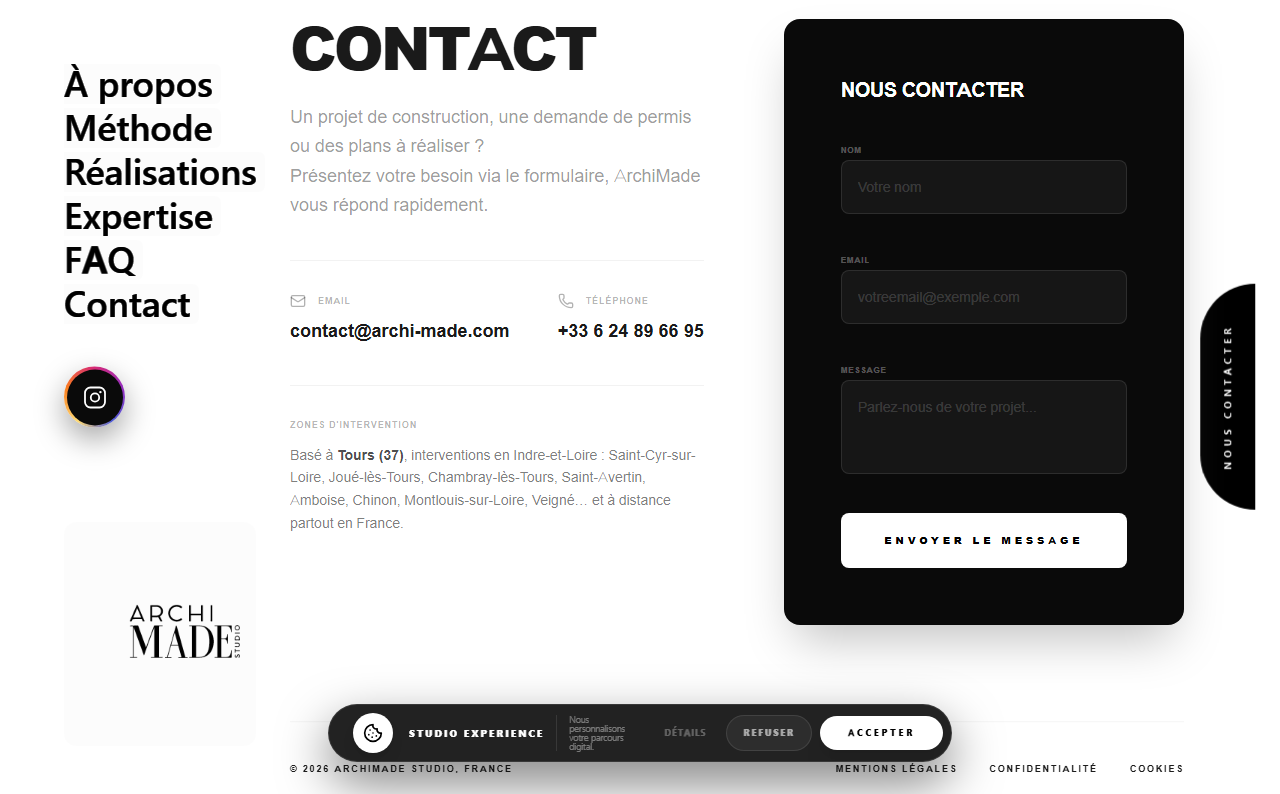
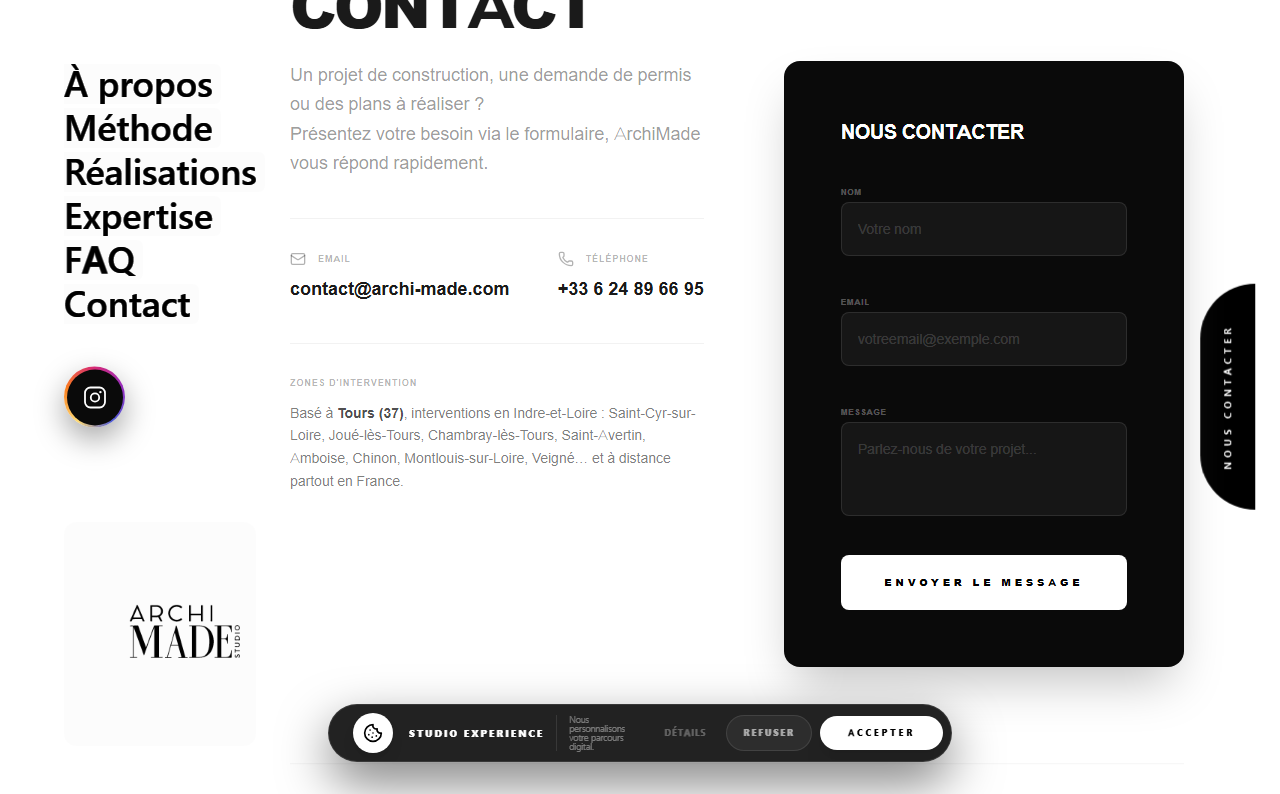
Contact: drop form card below heading, level with intro text

diff --git a/src/components/ArchiMadeLanding.tsx b/src/components/ArchiMadeLanding.tsx
@@ -2885,8 +2885,11 @@ function ArchiContact() {
             </div>
           </div>
 
-          {/* Right: Premium Card */}
-          <div className="contact-form-card lg:w-125 xl:w-145 w-full">
+          {/* Right: Premium Card. Top-offset only (row stays items-start) so the
+              card top drops to the intro-paragraph line, just below the CONTACT
+              heading. Offset = heading height + the space-y-6 gap (1.5rem); it
+              tracks the heading's responsive size (8xl at lg, clamp at xl). */}
+          <div className="contact-form-card lg:w-125 xl:w-145 w-full lg:mt-[7.5rem] xl:mt-[calc(clamp(3.75rem,calc(14vw-7.5rem),6rem)+1.5rem)]">
             <div className="bg-brand-dark p-8 md:p-12 lg:p-14 rounded-2xl border border-black/5 shadow-2xl relative overflow-hidden text-white">
               <h3 className="text-xl font-bold uppercase tracking-tight mb-8">
                 Nous contacter

diff --git a/PROGRESS.md b/PROGRESS.md
@@ -84,6 +84,7 @@ Official RNE/INPI lookup: APE **7112B** "Ingénierie, études techniques", décl
 - 2026-06-20 — 100% finish (dash-free copy + real nav/logo overlap fixes + true-zero-visible layout + kept proof-sheet) — **P1 dashes:** removed all 40 em/en-dash separators from src (40 -> 0; dist 0). Copy restructures: Réalisations H2 "Réalisations en Indre-et-Loire : plans & rendus 3D"; Zones "Basé à Tours (37), interventions…"; 6 gallery/about alts "…, dessinateur ArchiMade"; hero desc, founder line, legal éditeur/activité/footer, all alts -> "," / ":" by readability. Place-name hyphens (Saint-Cyr-sur-Loire, Indre-et-Loire) + middots (· eyebrow/founder) untouched. **P2 detector rewrite + real fixes:** scripts/layout-sweep.mjs now models VISIBLE INK overlap (Range glyph-rects with line-leading inset, effective opacity >=0.5 incl. ancestors, color-alpha >=0.5; Z-ORDER NEVER excuses; elementFromPoint used ONLY to confirm a 3D backface rotated away). Caught what the old occlusion-based pass wrongly dismissed. **Three real fixes (CSS only, no animation logic touched):** (A) nav vs CONTACT heading + (B) logo vs ZONES: Contact `<footer>` inner container `xl:max-w-none xl:mx-0 xl:pl-72 xl:pr-16`, columns `lg:flex-row xl:flex-col 2xl:flex-row` (clears the fixed 25vw sidebar at xl, form stacks through xl, side-by-side restored at 2xl; left col `xl:w-full 2xl:flex-1`, form `xl:w-full 2xl:w-145 2xl:shrink-0`). (C) nav vs long right-aligned "Réalisations en Indre-et-Loire :" heading (a side-effect of the P1 restructure): gallery-header `xl:pl-32` so it wraps clear of the nav. Plus the sticky "Nous contacter" pill became an icon-only circle until xl (`hidden xl:block` text / `xl:hidden` icon / circle sizing to xl) so it stops covering FAQ/content text at md/lg; at xl it's the rotated text pill in the right gutter. **Sweep result: 0 overflow / 0 overlap / 0 clip / 0 escape** across 4 routes × 18 widths (incl. just-below-breakpoints) × all states (sections, 6 service + 10 FAQ expands, gallery modal, cookie shown/dismissed, longest tagline, mobile nav); probe destroys Lenis so scroll-direction UI (mobile header auto-hide, isUIHidden sidebar fade over Réalisations/Expertise) fires as a user sees it. Residual = MINOR sub-40px tap heights on intended controls only. **P3 proof-sheet (KEPT):** ./layout-proof/ 38 PNGs — home {default, contact, faq-open, modal-open, cookie-shown, mobile-nav≤768} at 1920/1440/1280/1024/768/390 + 3 legal routes at 1280/390. Gates: build green 4 routes (max client chunk 311 KB<500); seo-check **28/28**; dist architecture=0, @type Architect=0; architecte only in disclaiming FAQ (negation-bound, 2x = captured question + answer, none in title/og/H/JSON-LD); dessinateur in title+eyebrow+H2+30 alts; all FAQ answers crawlable; eyebrow + full H1 (du croquis au permis) intact; em/en dashes 0 in dist+src, place-name hyphens intact. git diff = copy punctuation + layout CSS + sweep script; no GSAP/ScrollTrigger/framer-motion/Lenis logic line altered. **TODO(client) unchanged:** RCP, affiliation (FNDI?), Google avis, price 700 à 1 200 € figures, experience/project metrics.
 - 2026-06-20 — Contact: clearance-only overlap fix, restore balanced side-by-side composition — commit 65376dc had fixed the Contact nav/logo overlaps but WRONGLY restructured the columns (xl:flex-col stacking + 2xl:flex-row, lg:w-1/2->xl:w-full->2xl:flex-1 width surgery, xl:w-full/2xl:w-145 form surgery, xl:max-w-none/xl:mx-0/xl:pl-72 decenter), breaking the balanced side-by-side composition. **Reverted** all of that: Contact `<footer>` columns back to the original `flex flex-col lg:flex-row justify-between items-start lg:items-center gap-12 lg:gap-20`, left col `lg:w-1/2 space-y-10`, form `contact-form-card lg:w-125 xl:w-145 w-full` — byte-identical to pre-65376dc. **Re-fixed by CLEARANCE ONLY** (padding, no restructure): container `+ xl:pl-[max(96px,calc(930px-50vw))]` — extra left padding that only kicks in below ~1668px (centered max-w-7xl already clears the fixed nav/logo on wide screens, so wide composition is byte-identical/0 shift) and clears the nav (~215px) + bottom logo (~260px) at narrow xl. STEP 3 scale: CONTACT heading `+ xl:text-[clamp(3.75rem,calc(14vw-7.5rem),6rem)]` so it fits the nav-cleared left column at narrow xl and returns to full 8xl by ~1536. NO flex-direction/column-count/stacking/relative-width change (composition guard confirmed vs 65376dc^). Réalisations gallery-header `xl:pl-32` (from prior task) retained. Sweep (visible-ink, z-order-never-excuses, Lenis destroyed): **0 overlap / 0 overflow / 0 clip / 0 escape** across 4 routes × 18 widths × all states. Proof-sheet regenerated (./layout-proof/ 38 PNGs) — Contact at 1280/1440/1920 show the BALANCED side-by-side (info left, form right), zero overlap. Gates: build green 4 routes (max chunk 311 KB<500); seo-check **28/28**; dist+src em/en dashes 0, place-name hyphens intact; architecture=0, @type Architect=0, architecte only in disclaiming FAQ (negation-bound); dessinateur in title+eyebrow+H2+30 alts; FAQ answers crawlable; eyebrow + full H1 intact. git diff = Contact container padding + responsive heading scale only; no animation logic line altered. **TODO(client) unchanged:** RCP, affiliation (FNDI?), Google avis, price 700 à 1 200 € figures, experience/project metrics.
 - 2026-06-20 — Contact: align form card to heading top line (balanced side-by-side) — alignment-only polish. Measured form-card.top vs CONTACT-h2.top in the Contact `<footer>`: BEFORE (lg:items-center centered the row, form card is the taller column) the form poked ABOVE the heading by ~38px (1280 -45px, 1440 -34px, 1920 -38px). FIX: removed `lg:items-center` so the row stays `items-start` (top-aligned) at all breakpoints → form-card.top == heading.top. AFTER: offset **0px** at 1280/1440/1920 (form top and CONTACT heading top share one clean line; form no longer raised). NO width/flex-direction/stacking/font/copy change (single class removed: `lg:items-center`). Sweep: **0 overlap / 0 overflow / 0 clip / 0 escape** across 4 routes × 18 widths × all states. Proof-sheet refreshed (./layout-proof/ 38 PNGs); Contact 1280/1440/1920 show the form top aligned to the heading top, balanced. Gates: build green 4 routes (max chunk 311 KB<500); seo-check **28/28**; dist+src dashes 0; architecture=0, @type Architect=0; eyebrow + full H1 intact; FAQ answers crawlable; dessinateur in title/eyebrow/H2/30 alts. git diff = single Contact vertical-alignment class; no animation logic touched. **TODO(client) unchanged:** RCP, affiliation (FNDI?), Google avis, price 700 à 1 200 € figures, experience/project metrics.
+- 2026-06-20 — Contact: drop form card below heading, level with intro text — top-offset-only polish. The prior change top-aligned the form to the CONTACT heading; this drops it to the intro-paragraph line so the heading stands alone above and the form sits lower beside the supporting text/contact info. Measured (viewport h=1024, scrolled to #contact): needed drop = intro.top - form.top = heading-height + the space-y-6 gap (1.5rem) = 120px@1024, 84px@1280, 106px@1440, 120px@1920 (tracks the heading clamp). FIX (form card only, row stays items-start): added `lg:mt-[7.5rem]` (lg heading = text-8xl) + `xl:mt-[calc(clamp(3.75rem,calc(14vw-7.5rem),6rem)+1.5rem)]` (matches the xl heading clamp). AFTER: form.top == intro.top within **0px** at 1024/1280/1440/1920; form clearly below the heading; form.bottom (782-800px) well within the lg:h-screen overflow-hidden section (1024) — NO clip/overflow. NO width/flex-direction/stacking/font/copy change (only two `mt` utilities appended to the form card). Sweep: **0 overlap / 0 overflow / 0 clip / 0 escape** across 4 routes × 18 widths × all states. Proof-sheet refreshed (./layout-proof/ 38 PNGs); Contact 1280/1440/1920 show the form lower, top level with the intro text. Gates: build green 4 routes (max chunk 311 KB<500); seo-check **28/28**; dist+src dashes 0; architecture=0, @type Architect=0; eyebrow + full H1 intact; FAQ answers crawlable; dessinateur in title/eyebrow/H2/30 alts. git diff = form-card top-offset classes only; no animation logic touched. **TODO(client) unchanged:** RCP, affiliation (FNDI?), Google avis, price 700 à 1 200 € figures, experience/project metrics.
 - (append: date — phase — done — next)
 - 2026-06-18 — P1 — .npmrc legacy-peer-deps confirmed; soft-404 fixed: catch-all `*`→NotFound(noindex) added LAST in App.tsx, Seo gained noindex prop, removed SPA fallback rewrite in vercel.json so unknown paths return real 404. Clean install exit 0; build green (4 routes prerendered, `*` not prerendered); seo-check PRERENDER&HEAD 14/14 PASS. P1 = 8/8. Remaining FAILs are P2 (JSON-LD) / P3 (img sizing, preloads, >500KB chunk, fonts @import). Next: P2 structured data.
 - 2026-06-18 — P2 — JSON-LD @graph in raw HTML (Organization + ProfessionalService + 5 Services linked via @id); prerender.mjs now emits helmet.script; public/og-card.png 1200x630 via sharp; Seo DEFAULT_OG_IMAGE → og-card.png. Build green (4 routes); seo-check STRUCTURED DATA 3/3 PASS. P2 complete. Next: P3 performance/CWV.
